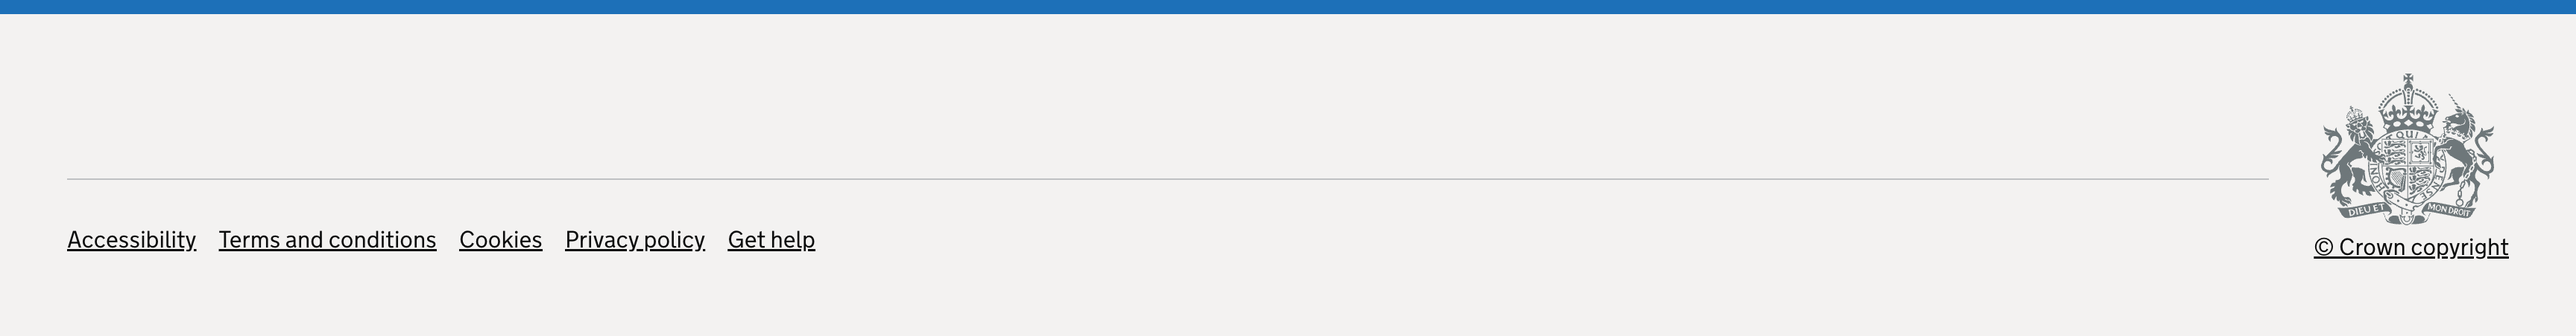
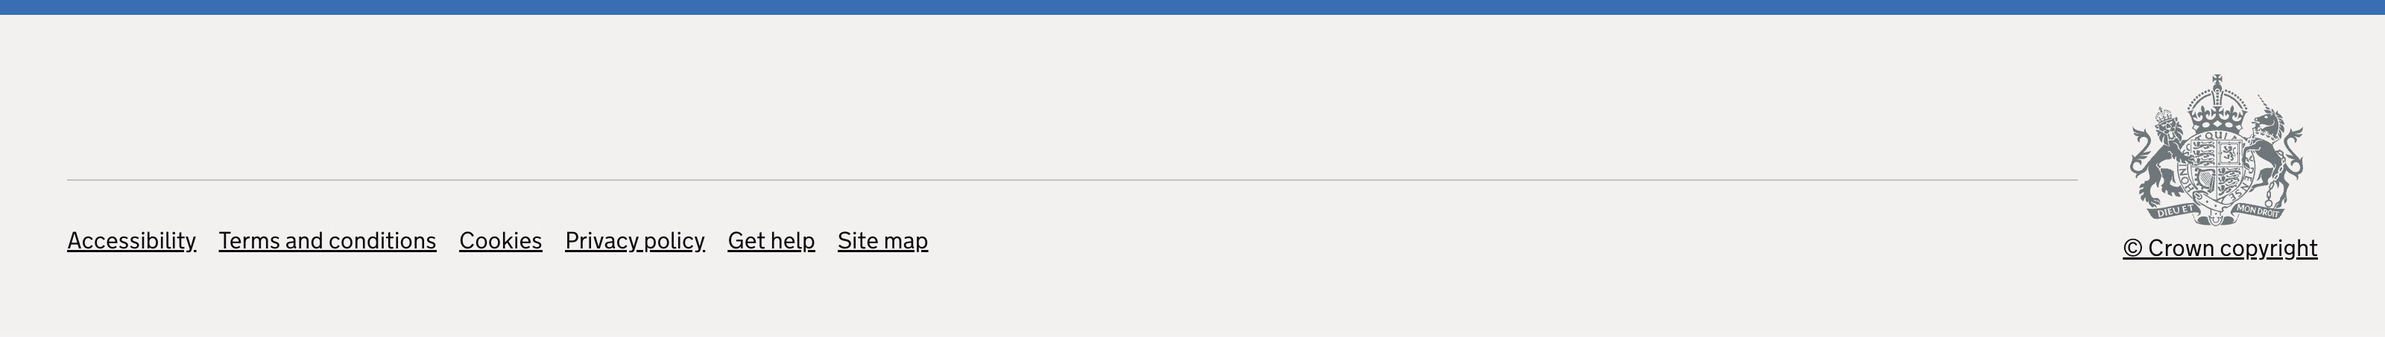
Add Site map link to shared footer

diff --git a/frontend/ui-component-lib/src/footer/defaults.ts b/frontend/ui-component-lib/src/footer/defaults.ts
@@ -6,7 +6,8 @@ export const DEFAULT_FOOTER_NAVIGATION: FooterNavigation = {
     { text: 'Terms and conditions', href: '/terms-and-conditions', target: '_blank' },
     { text: 'Cookies', href: '/cookies', target: '_blank' },
     { text: 'Privacy policy', href: '/privacy-policy', target: '_blank' },
-    { text: 'Get help', href: '/get-help', target: '_blank' }
+    { text: 'Get help', href: '/get-help', target: '_blank' },
+    { text: 'Site map', href: '/sitemap', target: '_blank' }
   ]
 };
 

diff --git a/frontend/ui-component-lib/README.md b/frontend/ui-component-lib/README.md
@@ -107,6 +107,7 @@ judge/judiciary/panelmember roles
 
 `buildFooterModel()` returns the standard root-relative footer links. Pass an
 XUI base URL when the links should resolve directly to XUI.
+The links include Site map (`/sitemap`) after Get help, opening in a new window.
 
 ### `FooterContext` input
 
